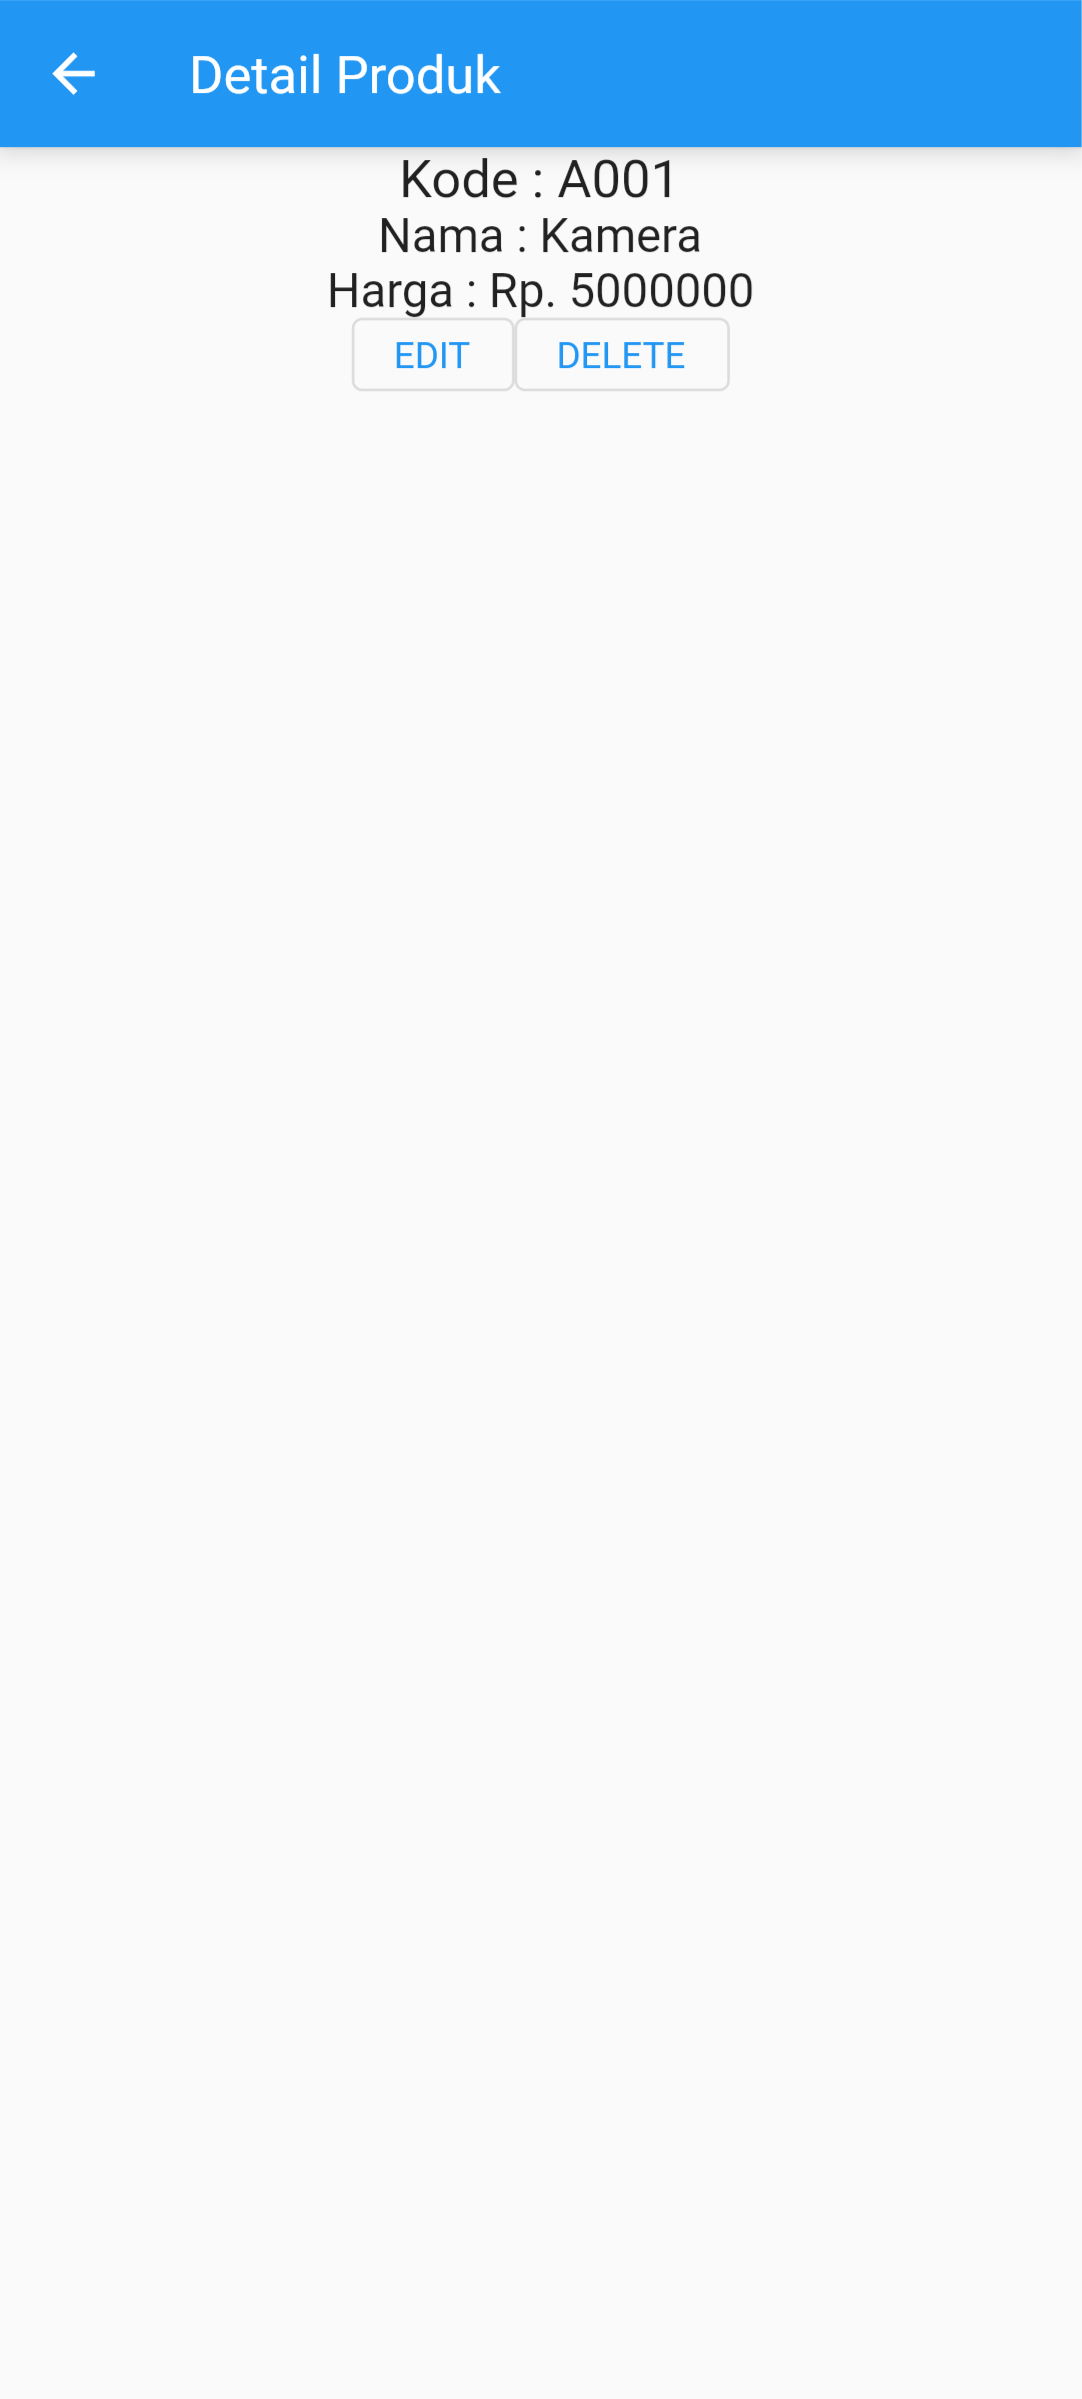
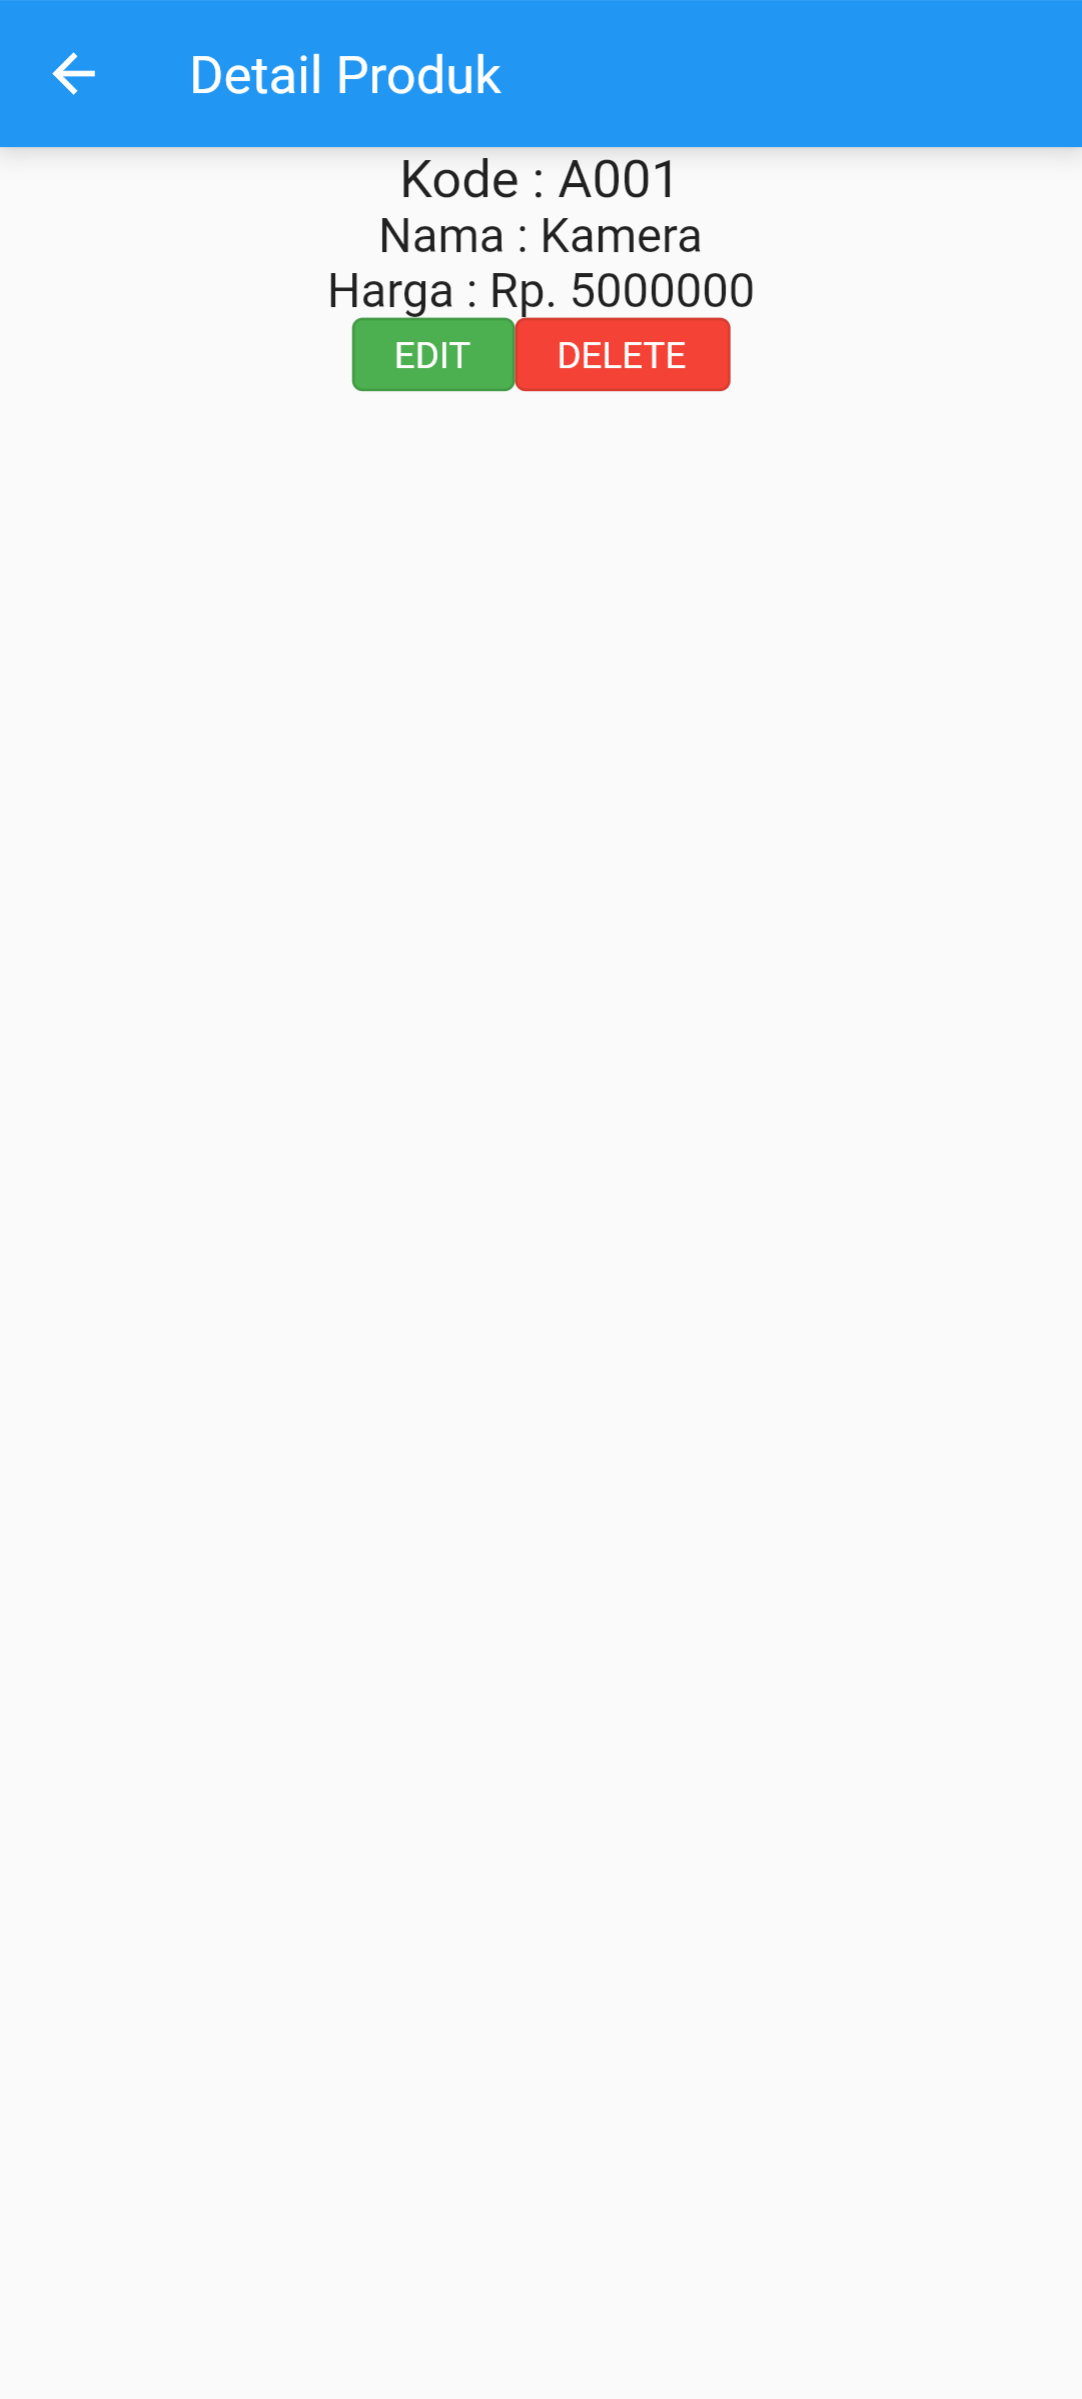
styling detail produk and edit png

Changed region(s): [[0.305, 0.0617, 0.7015, 0.1851]]

diff --git a/lib/ui/produk_detail.dart b/lib/ui/produk_detail.dart
@@ -40,32 +40,41 @@ class _ProdukDetailState extends State<ProdukDetail> {
     );
   }
 
-  Widget _tombolHapusEdit() {
-    return Row(
-      mainAxisSize: MainAxisSize.min,
-      children: [
-        //Tombol Edit
-        OutlinedButton(
-          child: const Text("EDIT"),
-          onPressed: () {
-            Navigator.push(
-              context,
-              MaterialPageRoute(
-                builder: (context) => ProdukForm(
-                  produk: widget.produk!,
-                ),
+Widget _tombolHapusEdit() {
+  return Row(
+    mainAxisSize: MainAxisSize.min,
+    children: [
+      // Tombol Edit
+      OutlinedButton(
+        child: const Text("EDIT"),
+        style: ButtonStyle(
+          backgroundColor: MaterialStateProperty.all<Color>(Colors.green), // Warna hijau
+          foregroundColor: MaterialStateProperty.all<Color>(Colors.white), // Warna teks putih
+        ),
+        onPressed: () {
+          Navigator.push(
+            context,
+            MaterialPageRoute(
+              builder: (context) => ProdukForm(
+                produk: widget.produk!,
               ),
-            );
-          },
+            ),
+          );
+        },
+      ),
+      // Tombol Hapus
+      OutlinedButton(
+        child: const Text("DELETE"),
+        style: ButtonStyle(
+          backgroundColor: MaterialStateProperty.all<Color>(Colors.red), // Warna merah
+          foregroundColor: MaterialStateProperty.all<Color>(Colors.white), // Warna teks putih
         ),
-        //Tombol Hapus
-        OutlinedButton(
-          child: const Text("DELETE"),
-          onPressed: () => confirmHapus(),
-        ),
-      ],
-    );
-  }
+        onPressed: () => confirmHapus(),
+      ),
+    ],
+  );
+}
+
 
   void confirmHapus() {
     AlertDialog alertDialog = AlertDialog(
